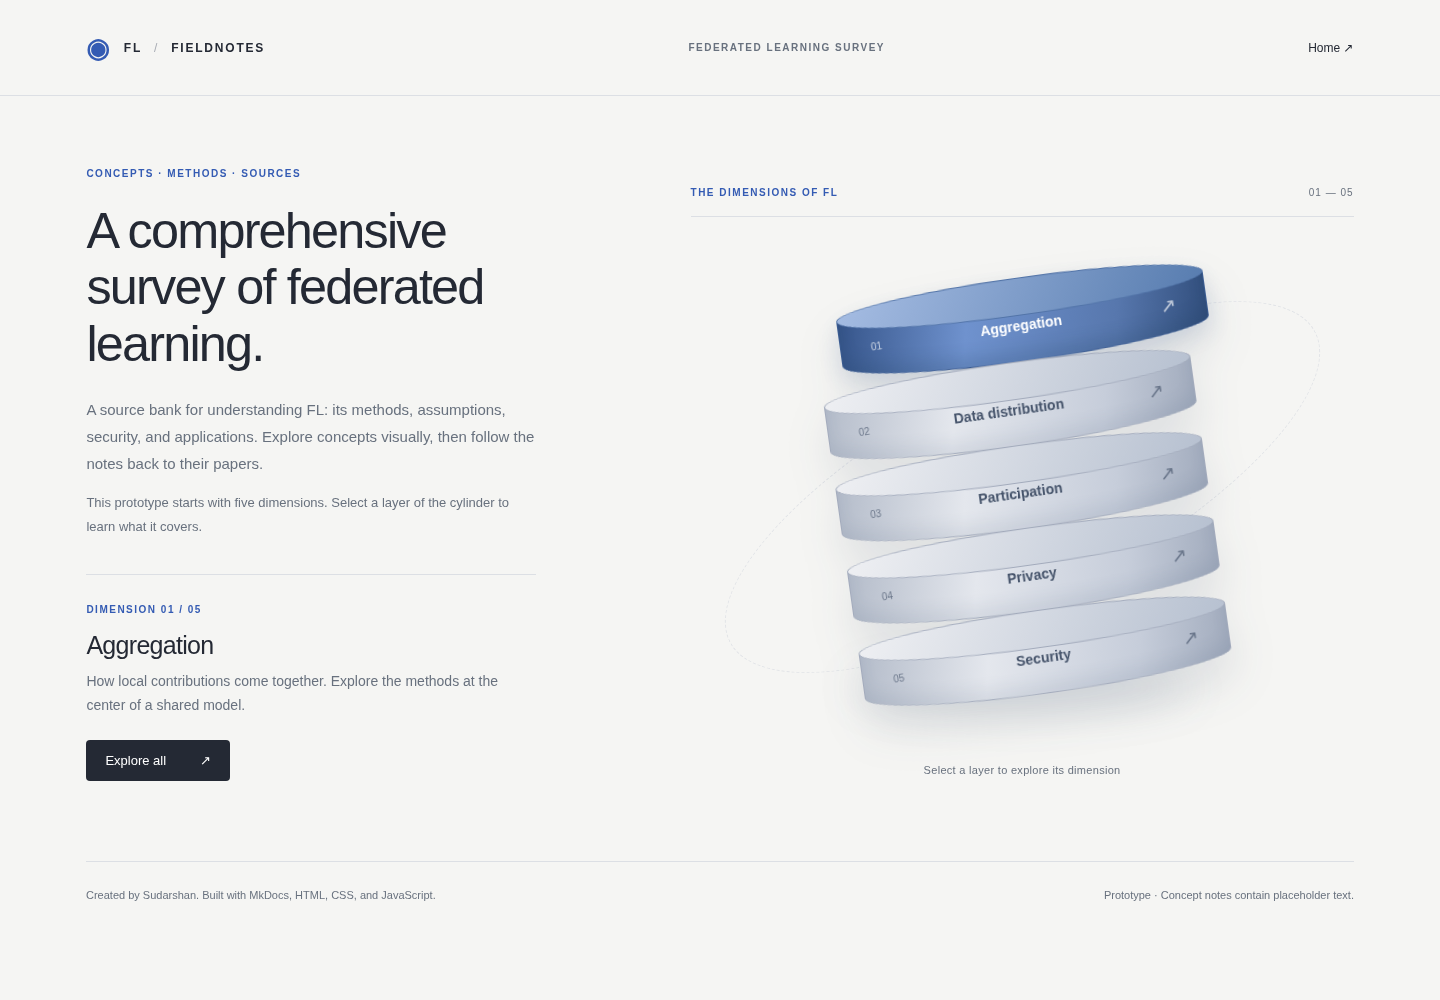
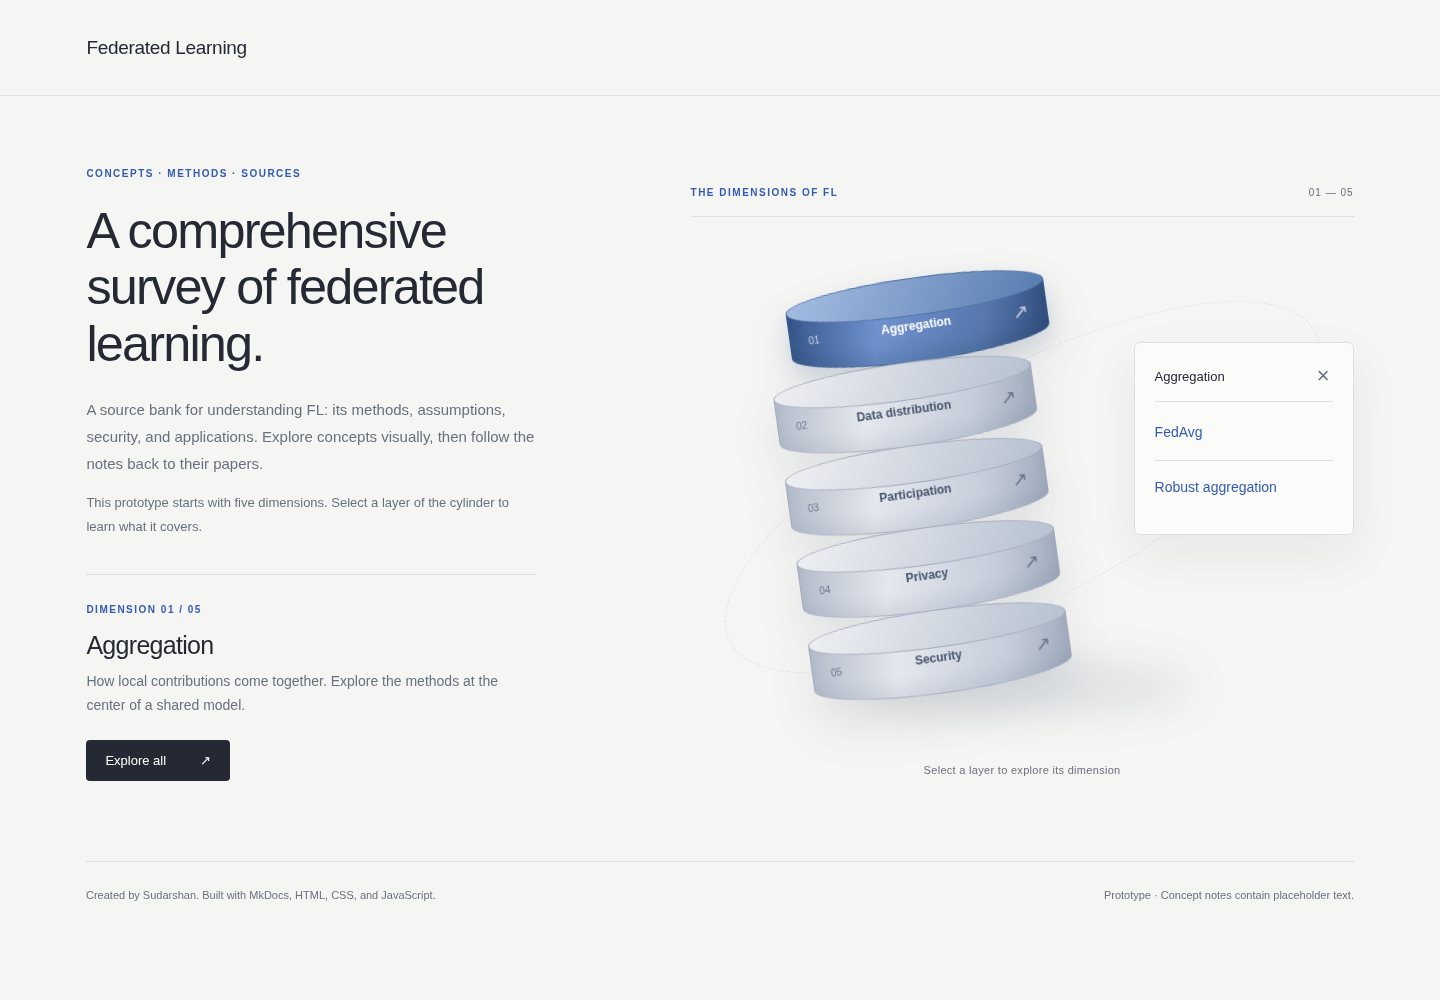
Simplify header and reveal concept links with side rotation

diff --git a/website/docs/assets/atlas.js b/website/docs/assets/atlas.js
@@ -14,12 +14,17 @@ for (const node of source.children) {
 }
 const reducedMotion = matchMedia('(prefers-reduced-motion: reduce)');
 let panelAnimation;
+let popoverAnimation;
+let lastSelected;
+const popover = document.querySelector('#concept-popover');
 const cylinder = document.querySelector('#cylinder');
 for (const [index, item] of dimensions.entries()) {
   const button = document.createElement('button');
   button.className = 'layer';
   button.innerHTML = `<span class="layer-number">${String(index + 1).padStart(2, '0')}</span><span class="layer-name"></span><span class="layer-arrow" aria-hidden="true">↗</span>`;
   button.querySelector('.layer-name').textContent = item.title;
+  button.setAttribute('aria-controls', 'concept-popover');
+  button.setAttribute('aria-expanded', 'false');
   button.addEventListener('click', () => selectDimension(index));
   cylinder.append(button);
 }
@@ -34,6 +39,7 @@ function selectDimension(index, animate = true) {
   document.querySelector('#feature-description').innerHTML = item.description;
   document.querySelector('#explore-all').setAttribute('href', item.href);
   history.replaceState(null, '', `#${item.id}`);
+  if (animate) openConcepts(item, index);
   if (animate && !reducedMotion.matches) {
     panelAnimation?.cancel();
     panelAnimation = document.querySelector('#feature-panel').animate([
@@ -42,5 +48,35 @@ function selectDimension(index, animate = true) {
     ], { duration: 400, easing: 'cubic-bezier(.16,1,.3,1)' });
   }
 }
+function openConcepts(item, index) {
+  lastSelected = cylinder.children[index];
+  const entries = document.querySelector(`#concept-source [data-dimension="${item.id}"]`);
+  document.querySelector('#concept-heading').textContent = item.title;
+  document.querySelector('#concept-links').replaceChildren(...[...entries.children].map(link => link.cloneNode(true)));
+  popover.hidden = false;
+  document.querySelector('.object-area').classList.add('expanded');
+  [...cylinder.children].forEach((button, i) => button.setAttribute('aria-expanded', String(i === index)));
+  if (!reducedMotion.matches) {
+    popoverAnimation?.cancel();
+    popoverAnimation = popover.animate([
+      { opacity: 0, transform: 'perspective(900px) rotateY(-75deg) translateX(-35px)' },
+      { opacity: 1, transform: 'perspective(900px) rotateY(0) translateX(0)' }
+    ], { duration: 650, easing: 'cubic-bezier(.16,1,.3,1)' });
+    document.querySelectorAll('#concept-links a').forEach((link, i) => link.animate([
+      { opacity: 0, transform: 'translateX(-15px)' },
+      { opacity: 1, transform: 'translateX(0)' }
+    ], { duration: 400, delay: 130 + i * 80, fill: 'backwards', easing: 'ease-out' }));
+  }
+}
+function closeConcepts() {
+  popover.hidden = true;
+  document.querySelector('.object-area').classList.remove('expanded');
+  [...cylinder.children].forEach(button => button.setAttribute('aria-expanded', 'false'));
+  lastSelected?.focus();
+}
+document.querySelector('#close-concepts').addEventListener('click', closeConcepts);
+document.addEventListener('keydown', event => {
+  if (event.key === 'Escape' && !popover.hidden) closeConcepts();
+});
 const selected = dimensions.findIndex(item => `#${item.id}` === location.hash);
 selectDimension(selected < 0 ? 0 : selected, false);

diff --git a/website/docs/assets/atlas.css b/website/docs/assets/atlas.css
@@ -3,3 +3,17 @@
 @media(max-width:1350px){footer{margin:0 6%}.home{gap:6%}.layer{height:78px}}
 @media(max-width:760px){.masthead{height:76px}.edition{display:none}.home{grid-template-columns:1fr;padding:36px 6%;gap:30px}.home-copy{display:contents}.home-copy>.eyebrow{order:0}.intro{order:1}.intro h1{font-size:36px;margin-top:0}.intro p{font-size:14px}.object-area{order:2;height:470px;margin-top:5px}.feature-panel{order:3;max-width:none;margin-top:0;min-height:0}.cylinder{width:290px}.layer{height:65px;padding-left:23px;padding-right:23px}.layer:before{height:30px}.layer-name{font-size:12px}.object-base{width:250px;bottom:55px}.object-heading{padding-bottom:12px}.object-caption{font-size:10px}.document-page{padding:28px 6% 50px}.document-page article h1{font-size:34px}.document-page article{font-size:15px}.breadcrumbs{margin-bottom:32px}footer{margin:15px 6% 0;padding:22px 0;gap:8px}.brand{font-size:11px;gap:8px}.home-link{font-size:11px}}
 @media(prefers-reduced-motion:reduce){*,*:before,*:after{animation:none!important;transition:none!important;scroll-behavior:auto!important}}
+/* Concept names swing out beside the selected cylinder layer. */
+.masthead .brand{font-size:19px;font-weight:500;letter-spacing:-.3px}
+.cylinder{transition:transform .65s var(--ease),width .65s var(--ease)}
+.object-area.expanded .cylinder{width:260px;transform:translateX(-105px) rotate(-8deg);animation:none}
+.object-area.expanded .layer{padding-left:18px;padding-right:18px}
+.object-area.expanded .layer-name{font-size:12px}
+.concept-popover{position:absolute;z-index:4;right:0;top:155px;width:220px;padding:20px;background:#fbfbfa;border:1px solid var(--line);border-radius:6px;box-shadow:0 20px 50px #26345112;transform-origin:left center}
+.concept-popover[hidden]{display:none}
+.popover-heading{display:flex;align-items:center;justify-content:space-between;gap:10px;border-bottom:1px solid var(--line);padding-bottom:12px;margin-bottom:4px}
+.popover-heading h2{font-size:13px;font-weight:500;margin:0}
+#close-concepts{border:0;background:none;font-size:22px;color:var(--muted);padding:0 3px}
+#concept-links{display:grid}#concept-links a{display:block;padding:17px 0;font-size:14px;text-decoration:none;border-bottom:1px solid var(--line);line-height:1.4}#concept-links a:last-child{border-bottom:0}#concept-links a:hover{text-decoration:underline}
+@media(max-width:1100px) and (min-width:761px){.concept-popover{width:190px;padding:15px}.object-area.expanded .cylinder{width:220px;transform:translateX(-100px) rotate(-8deg)}.object-area.expanded .layer-name{font-size:10px}}
+@media(max-width:760px){.object-area{transition:height .5s var(--ease)}.object-area.expanded{height:650px}.object-area.expanded .cylinder{position:absolute;top:85px;width:290px;transform:rotate(-8deg)}.concept-popover{top:auto;bottom:30px;right:0;width:100%;padding:15px 20px}.object-area.expanded .object-caption{bottom:0}.object-area.expanded .object-base{top:390px;bottom:auto}.object-area.expanded .layer-name{font-size:12px}#concept-links{grid-template-columns:1fr 1fr;gap:16px}#concept-links a{font-size:13px;border:0;padding:14px 0}.masthead .brand{font-size:18px}}

diff --git a/website/theme/main.html b/website/theme/main.html
@@ -8,7 +8,7 @@
   <link rel="stylesheet" href="{{ 'assets/atlas.css' | url }}">
 </head>
 <body>
-  <header class="masthead"><a class="brand" href="{{ 'index.html' | url }}"><span class="brand-symbol">◉</span> FL <span class="brand-slash">/</span> FIELDNOTES</a><span class="edition">FEDERATED LEARNING SURVEY</span><a class="home-link" href="{{ 'index.html' | url }}">Home ↗</a></header>
+  <header class="masthead"><a class="brand" href="{{ 'index.html' | url }}">Federated Learning</a></header>
   {% if page.meta.layout == 'home' %}
   <main class="home">
     <section class="home-copy">
@@ -24,10 +24,15 @@
     <section class="object-area" aria-label="Choose a federated learning dimension">
       <div class="object-heading"><span class="eyebrow">THE DIMENSIONS OF FL</span><span>01 — 05</span></div>
       <div class="orbit"></div><div class="cylinder" id="cylinder"></div><div class="object-base"></div>
+      <section class="concept-popover" id="concept-popover" aria-labelledby="concept-heading" hidden>
+        <div class="popover-heading"><h2 id="concept-heading"></h2><button id="close-concepts" aria-label="Close concept list">×</button></div>
+        <nav id="concept-links" aria-label="Concepts"></nav>
+      </section>
       <p class="object-caption">Select a layer to explore its dimension</p>
     </section>
   </main>
   <div id="markdown-source" hidden>{{ page.content }}</div>
+  <div id="concept-source" hidden>{% for slug, concepts in config.extra.dimension_concepts.items() %}<section data-dimension="{{ slug }}">{% for concept in concepts %}<a href="{{ concept.url | url }}">{{ concept.title }}</a>{% endfor %}</section>{% endfor %}</div>
   <noscript><style>#markdown-source{display:block!important;padding:2rem}.home{display:none}</style></noscript>
   <script src="{{ 'assets/atlas.js' | url }}" defer></script>
   {% else %}

diff --git a/website/hooks.py b/website/hooks.py
@@ -1,0 +1,25 @@
+"""Supply homepage concept links from the dimension listing Markdown files."""
+import re
+from pathlib import Path
+
+
+def on_config(config):
+    docs = Path(config.docs_dir)
+    dimensions = {}
+    for listing in sorted((docs / 'dimensions').glob('*/index.md')):
+        concepts = []
+        for title, target in re.findall(
+            r'^## \[([^\]]+)\]\(([^)]+\.md)\)\s*$',
+            listing.read_text(),
+            flags=re.MULTILINE,
+        ):
+            destination = listing.parent / target
+            if not destination.is_file():
+                raise ValueError(f'Missing concept page: {destination}')
+            concepts.append({
+                'title': title,
+                'url': destination.relative_to(docs).with_suffix('.html').as_posix(),
+            })
+        dimensions[listing.parent.name] = concepts
+    config.extra['dimension_concepts'] = dimensions
+    return config

diff --git a/website/README.md b/website/README.md
@@ -1,6 +1,6 @@
 # FL Fieldnotes — survey website
 
-A MkDocs website for a comprehensive federated learning survey. The homepage explains the project beside an interactive cylinder. Selecting a dimension shows its description and an **Explore all** link. That link opens a concept listing; every concept has its own detail page and URL.
+A MkDocs website for a comprehensive federated learning survey. The homepage explains the project beside an interactive cylinder. Selecting a dimension shows its description and swings out a panel of concept names linking directly to detail pages. An **Explore all** link also opens the full listing. That link opens a concept listing; every concept has its own detail page and URL.
 
 Concept details are still placeholder text. The homepage and dimension descriptions explain the intended scope.
 
@@ -24,7 +24,7 @@ Open the URL printed by MkDocs, normally http://127.0.0.1:8000.
 
 Front matter selects the page layout: `home`, `dimension`, or `concept`. Concept front matter specifies `dimension` and `dimension_url` for breadcrumb navigation. MkDocs converts all Markdown links to HTML links. Concept pages work without JavaScript; only the cylinder needs JavaScript.
 
-The template is `theme/main.html`. Styles and cylinder interactions are in `docs/assets/`. Fonts use Arial with Helvetica Neue and Helvetica fallbacks. The cylinder is drawn in CSS, with keyboard-accessible buttons and reduced-motion support.
+The build hook `hooks.py` reads the concept links from dimension listing Markdown and supplies the homepage panels, so names and destinations have one source. The template is `theme/main.html`. Styles and cylinder interactions are in `docs/assets/`. Fonts use Arial with Helvetica Neue and Helvetica fallbacks. The cylinder is drawn in CSS, with keyboard-accessible buttons and reduced-motion support.
 
 ## Publishing
 
